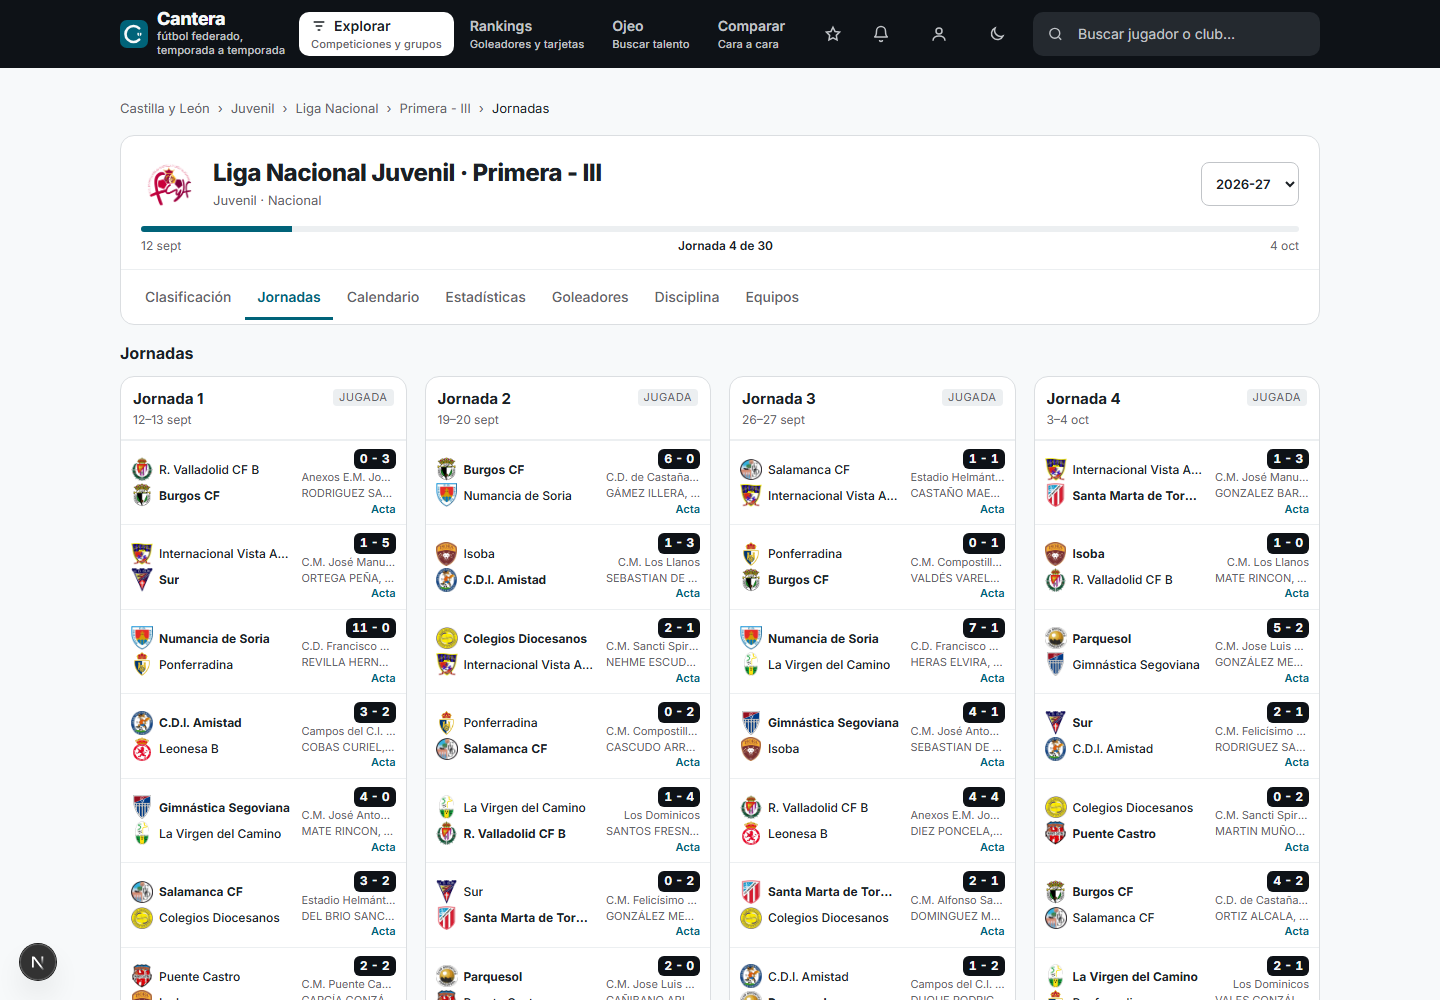
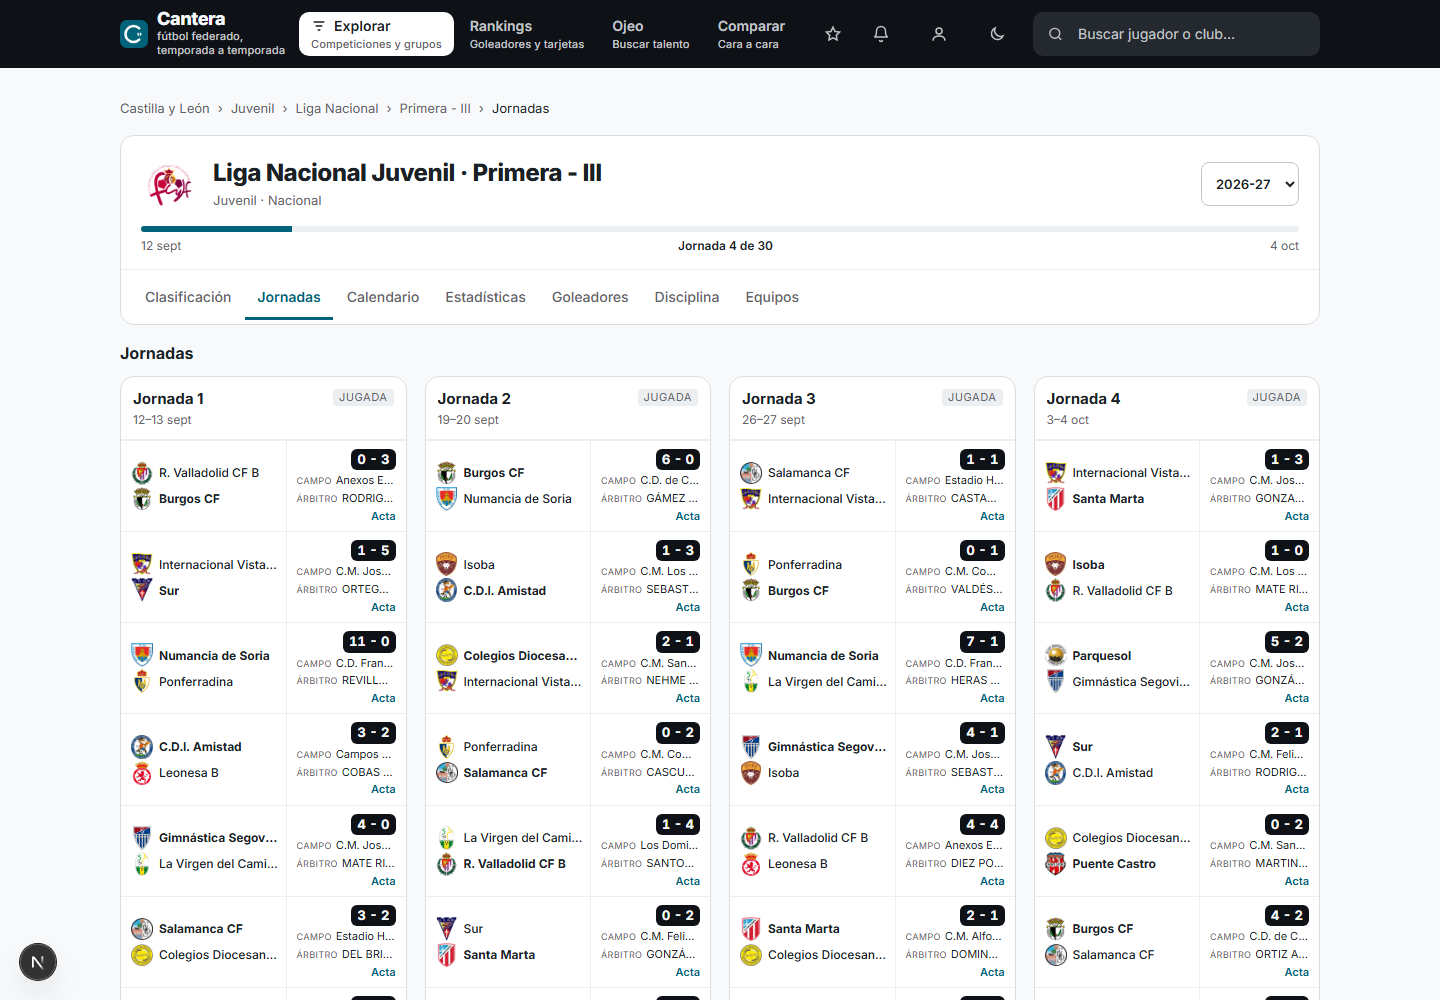
jornadas: equipos apilados y resultado, campo y arbitro a la derecha
Reorganiza la tabla de cada jornada para que deje de verse como un caos:

- Local y visitante apilados en la misma columna; a la derecha, resultado,
  campo y arbitro con etiquetas visibles y el nombre completo en title.
- 4 jornadas por fila en PC; una por contenedor en movil, sin scroll horizontal.
- Mismo tratamiento en el detalle de jornada y en la tarjeta de competicion.
- Santa Marta se muestra como 'Santa Marta' (y sus filiales con letra).
- Capturas nuevas final5-* y docs/capturas actualizadas; no se reutilizan viejas.

Comprobado en HTML real: el pie no contiene 'archivo privado' no 'no es una web oficial';
/entrar y /crear-cuenta tienen formularios distintos y ninguno pide invitacion.
Puertas: pnpm test 1.356/1, e2e 66/66, web 773/1, tsc, lint y next build.
Marca sin renombrar a la espera de la eleccion de David.

Changed region(s): [[0.0938, 0.434, 0.9062, 1.0]]

diff --git a/apps/web/src/componentes/competicion/PartidosDeJornada.tsx b/apps/web/src/componentes/competicion/PartidosDeJornada.tsx
@@ -57,7 +57,7 @@ export function PartidosDeJornada({ jornada, partidos, hrefActa }: {
               const enlaceEquipo = (id: number) => `/explorar/equipo/${id}` as Route;
               return (
                 <li key={partido.match_id} className="border-t border-[var(--fondo-sutil)] px-3.5 py-2.5">
-                  <div className="grid grid-cols-[minmax(0,1fr)_auto] items-start gap-2">
+                  <div className="grid grid-cols-[minmax(0,1fr)_minmax(0,44%)] items-start gap-2 sm:grid-cols-[minmax(0,1fr)_320px]">
                     <div className="flex min-w-0 flex-col gap-1">
                       <Link href={enlaceEquipo(partido.local_id)} title={nombres.completo_local}
                         className="flex min-w-0 items-center gap-2">
@@ -78,11 +78,11 @@ export function PartidosDeJornada({ jornada, partidos, hrefActa }: {
                         <span className="sr-only">Visitante</span>
                       </Link>
                     </div>
-                    <div className="flex min-w-0 flex-col items-end gap-0.5 text-right">
+                    <div className="flex min-w-0 flex-col items-end gap-1 border-l border-[var(--fondo-sutil)] pl-2 text-right">
                       <span title={marcador.accesible}
                         className={marcador.jugado
-                          ? 'whitespace-nowrap tabular-nums rounded-[var(--radius-md)] bg-[var(--fondo-fuerte)] px-1.5 py-0.5 font-bold text-[var(--texto-fuerte)]'
-                          : 'whitespace-nowrap tabular-nums rounded-[var(--radius-md)] bg-[var(--fondo-sutil)] px-1.5 py-0.5 font-semibold text-[var(--texto-suave)]'}>
+                          ? 'whitespace-nowrap tabular-nums rounded-[var(--radius-md)] bg-[var(--fondo-fuerte)] px-1.5 py-0.5 text-tabla font-bold text-[var(--texto-fuerte)]'
+                          : 'whitespace-nowrap tabular-nums rounded-[var(--radius-md)] bg-[var(--fondo-sutil)] px-1.5 py-0.5 text-tabla font-semibold text-[var(--texto-suave)]'}>
                         {marcador.texto}
                         <span className="sr-only">, {marcador.accesible}</span>
                       </span>
@@ -91,14 +91,18 @@ export function PartidosDeJornada({ jornada, partidos, hrefActa }: {
                         {fechaCorta(fechaDePartido(partido))}
                       </span>
                       {campo !== '' && (
-                        <span className="max-w-[180px] truncate text-etiqueta leading-tight text-[var(--texto-suave)]" title={campo}>
-                          {campo}
+                        <span className="flex max-w-full items-baseline justify-end gap-1 text-etiqueta leading-tight text-[var(--texto-suave)]"
+                          title={`Campo: ${campo}`}>
+                          <span className="flex-none text-[9px] uppercase tracking-[0.04em]">Campo</span>
+                          <span className="min-w-0 truncate text-[var(--texto)]">{campo}</span>
                         </span>
                       )}
                       {arbitro !== '' && (
-                        <span className="max-w-[180px] truncate text-etiqueta leading-tight text-[var(--texto-suave)]"
+                        <span className="flex max-w-full items-baseline justify-end gap-1 text-etiqueta leading-tight text-[var(--texto-suave)]"
                           title={`Árbitro: ${arbitro}`}>
-                          <span className="sr-only">Árbitro: </span>{arbitro}
+                          <span className="flex-none text-[9px] uppercase tracking-[0.04em]" aria-hidden="true">Árbitro</span>
+                          <span className="sr-only">Árbitro: </span>
+                          <span className="min-w-0 truncate text-[var(--texto)]">{arbitro}</span>
                         </span>
                       )}
                       {acta !== null && (

diff --git a/apps/web/src/componentes/competicion/Jornada.tsx b/apps/web/src/componentes/competicion/Jornada.tsx
@@ -70,7 +70,7 @@ export function Jornada({ numero, partidos, hrefAnterior, hrefSiguiente, hrefAct
               const enlaceEquipo = (id: number) => `/explorar/equipo/${id}` as Route;
               return (
                 <li key={p.match_id} className="border-t border-[var(--fondo-sutil)] px-3.5 py-2">
-                  <div className="grid grid-cols-[minmax(0,1fr)_auto] items-start gap-2">
+                  <div className="grid grid-cols-[minmax(0,1fr)_minmax(0,44%)] items-start gap-2 sm:grid-cols-[minmax(0,1fr)_320px]">
                     <div className="flex min-w-0 flex-col gap-1">
                       <Link href={enlaceEquipo(p.local_id)} title={nombres.completo_local}
                         className="flex min-w-0 items-center gap-2">
@@ -89,24 +89,28 @@ export function Jornada({ numero, partidos, hrefAnterior, hrefSiguiente, hrefAct
                         </span>
                       </Link>
                     </div>
-                    <div className="flex min-w-0 flex-col items-end gap-0.5 text-right">
+                    <div className="flex min-w-0 flex-col items-end gap-1 border-l border-[var(--fondo-sutil)] pl-2 text-right">
                       <span title={marcador.accesible}
                         className={marcador.jugado
-                          ? 'whitespace-nowrap tabular-nums rounded-[var(--radius-md)] bg-[var(--fondo-fuerte)] px-1.5 py-0.5 font-bold text-[var(--texto-fuerte)]'
-                          : 'whitespace-nowrap tabular-nums rounded-[var(--radius-md)] bg-[var(--fondo-sutil)] px-1.5 py-0.5 font-semibold text-[var(--texto-suave)]'}>
+                          ? 'whitespace-nowrap tabular-nums rounded-[var(--radius-md)] bg-[var(--fondo-fuerte)] px-1.5 py-0.5 text-tabla font-bold text-[var(--texto-fuerte)]'
+                          : 'whitespace-nowrap tabular-nums rounded-[var(--radius-md)] bg-[var(--fondo-sutil)] px-1.5 py-0.5 text-tabla font-semibold text-[var(--texto-suave)]'}>
                         {marcador.texto}
                         <span className="sr-only">, {marcador.accesible}</span>
                       </span>
                       {hora !== '' && <span className="tabular-nums text-etiqueta text-[var(--texto-suave)]">{hora}</span>}
                       {campo !== '' && (
-                        <span className="max-w-[180px] truncate text-etiqueta leading-tight text-[var(--texto-suave)]" title={campo}>
-                          {campo}
+                        <span className="flex max-w-full items-baseline justify-end gap-1 text-etiqueta leading-tight text-[var(--texto-suave)]"
+                          title={`Campo: ${campo}`}>
+                          <span className="flex-none text-[9px] uppercase tracking-[0.04em]">Campo</span>
+                          <span className="min-w-0 truncate text-[var(--texto)]">{campo}</span>
                         </span>
                       )}
                       {arbitro !== '' && (
-                        <span className="max-w-[180px] truncate text-etiqueta leading-tight text-[var(--texto-suave)]"
+                        <span className="flex max-w-full items-baseline justify-end gap-1 text-etiqueta leading-tight text-[var(--texto-suave)]"
                           title={`Árbitro: ${arbitro}`}>
-                          <span className="sr-only">Árbitro: </span>{arbitro}
+                          <span className="flex-none text-[9px] uppercase tracking-[0.04em]" aria-hidden="true">Árbitro</span>
+                          <span className="sr-only">Árbitro: </span>
+                          <span className="min-w-0 truncate text-[var(--texto)]">{arbitro}</span>
                         </span>
                       )}
                       {acta !== null && (

diff --git a/apps/web/src/componentes/competicion/ListadoJornadas.tsx b/apps/web/src/componentes/competicion/ListadoJornadas.tsx
@@ -87,8 +87,8 @@ function JornadaEnTabla({ jornada, hrefJornada, hrefActa }: {
       <table className="w-full table-fixed border-collapse text-nota max-sm:text-tabla">
         <caption className="sr-only">Resultados de la jornada {jornada.numero}</caption>
         <colgroup>
-          <col style={{ width: '62%' }} />
-          <col style={{ width: '38%' }} />
+          <col style={{ width: '58%' }} />
+          <col style={{ width: '42%' }} />
         </colgroup>
         <tbody>
           {jornada.lista.map((partido) => (
@@ -149,24 +149,28 @@ function FilaDePartido({ partido, hrefActa }: {
           </Link>
         </div>
       </td>
-      <td className="min-w-0 py-2 pl-1 pr-2.5 text-right">
-        <div className="flex min-w-0 flex-col items-end gap-0.5">
+      <td className="min-w-0 border-l border-[var(--fondo-sutil)] py-2 pl-2.5 pr-2.5 text-right">
+        <div className="flex min-w-0 flex-col items-end gap-1">
           <span title={marcador.accesible}
             className={marcador.jugado
-              ? 'whitespace-nowrap tabular-nums rounded-[var(--radius-md)] bg-[var(--fondo-fuerte)] px-1.5 py-0.5 font-bold text-[var(--texto-fuerte)]'
-              : 'whitespace-nowrap tabular-nums rounded-[var(--radius-md)] bg-[var(--fondo-sutil)] px-1.5 py-0.5 font-semibold text-[var(--texto-suave)]'}>
+              ? 'whitespace-nowrap tabular-nums rounded-[var(--radius-md)] bg-[var(--fondo-fuerte)] px-1.5 py-0.5 text-tabla font-bold text-[var(--texto-fuerte)]'
+              : 'whitespace-nowrap tabular-nums rounded-[var(--radius-md)] bg-[var(--fondo-sutil)] px-1.5 py-0.5 text-tabla font-semibold text-[var(--texto-suave)]'}>
             {marcador.texto}
             <span className="sr-only">, {marcador.accesible}</span>
           </span>
           {campo !== '' && (
-            <span className="max-w-full truncate text-etiqueta leading-tight text-[var(--texto-suave)]" title={campo}>
-              {campo}
+            <span className="flex max-w-full items-baseline justify-end gap-1 text-etiqueta leading-tight text-[var(--texto-suave)]"
+              title={`Campo: ${campo}`}>
+              <span className="flex-none text-[9px] uppercase tracking-[0.04em]">Campo</span>
+              <span className="min-w-0 truncate text-[var(--texto)]">{campo}</span>
             </span>
           )}
           {arbitro !== '' && (
-            <span className="max-w-full truncate text-etiqueta leading-tight text-[var(--texto-suave)]"
+            <span className="flex max-w-full items-baseline justify-end gap-1 text-etiqueta leading-tight text-[var(--texto-suave)]"
               title={`Árbitro: ${arbitro}`}>
-              <span className="sr-only">Árbitro: </span>{arbitro}
+              <span className="flex-none text-[9px] uppercase tracking-[0.04em]" aria-hidden="true">Árbitro</span>
+              <span className="sr-only">Árbitro: </span>
+              <span className="min-w-0 truncate text-[var(--texto)]">{arbitro}</span>
             </span>
           )}
           {acta !== null && (

diff --git a/apps/web/test/jornada-pantalla.test.ts b/apps/web/test/jornada-pantalla.test.ts
@@ -304,8 +304,8 @@ describe('las tablas de jornadas', () => {
     expect(soloSinResultado).toContain('—');
     expect(soloSinResultado).not.toContain('0 - 0');
     // La tabla apila los equipos en la columna izquierda y deja el resultado a la derecha.
-    expect(html).toContain('style="width:62%"');
-    expect(html).toContain('style="width:38%"');
+    expect(html).toContain('style="width:58%"');
+    expect(html).toContain('style="width:42%"');
     expect(html).toContain('min-w-0 truncate');
   });
 
@@ -391,7 +391,7 @@ describe('los partidos de una jornada', () => {
     const html = render();
     expect(html).toContain('Árbitro: ');
     expect(html).toContain('MARTÍN EZQUERRA, PABLO');
-    expect(html).toContain('grid-cols-[minmax(0,1fr)_auto]');
+    expect(html).toContain('grid-cols-[minmax(0,1fr)_minmax(0,44%)]');
     expect(html).toContain('items-end');
     expect(html).toContain('truncate');
   });

diff --git a/ESTADO-AGENTE.md b/ESTADO-AGENTE.md
@@ -4,5 +4,5 @@ tarea: todas las pantallas del prototipo y API v1 ampliada, con CyL prioritaria
 nivel: 2
 siguiente: validación de David; después, recogida de datos de CyL hasta completar la federación y, sólo entonces, abrir otras
 bloqueado:
-resumen: Revisión de David aplicada: marca Cantera con logo propio, pie sin aviso legal verificado en HTML real, acceso separado en Entrar/Crear cuenta y jornadas en tablas con equipos apilados, resultado/campo/árbitro a la derecha y nombres cortos. Todas las pantallas del prototipo y la API v1 están implementadas. CyL sigue incompleta (133/889 competiciones) y la recogida corresponde a los colectores programados.
-fecha: 2026-11-05
+resumen: Disposición de jornadas reajustada (equipos apilados, Campo/Árbitro a la derecha, 4 por fila en PC y una en móvil), acceso separado y pie sin aviso legal verificados en HTML real; nombres cortos revisados (Santa Marta). La marca queda sin renombrar hasta que David elija entre Marcador, Grada, Balompié o FutbolCyL. CyL sigue incompleta (133/889) y la recogida corresponde a los colectores programados.
+fecha: 2026-11-06

diff --git a/WALL.md b/WALL.md
@@ -139,6 +139,12 @@ estadísticas e historiales sin que falte nada.
 
 ## Bitácora
 
+- 06/11/2026: **marca pendiente de elección.** David descarta Cantera y Futboly; quedan
+  Marcador/Grada/Balompié/FutbolCyL. No se aplica ningún nombre nuevo hasta que elija: la interfaz
+  conserva el nombre actual como marcador provisional. Se revisó la disposición de jornadas: equipos
+  apilados, etiquetas Campo/Árbitro a la derecha, 4 por fila en PC y una en móvil; nombres cortos de
+  Santa Marta ajustados a «Santa Marta». Entrar/Crear cuenta y pie legal ya estaban separados/retirados
+  y se comprobaron en HTML real.
 - 05/11/2026: **revisión de David aplicada con nombre Cantera.** Marca `Cantera` en cabecera, títulos
   y textos, con logotipo propio (C con balón) y favicon a juego; verificado en el HTML real de `/`,
   `/canonico`, `/competiciones`, `/entrar` y `/crear-cuenta` que **no queda** «archivo privado» ni
